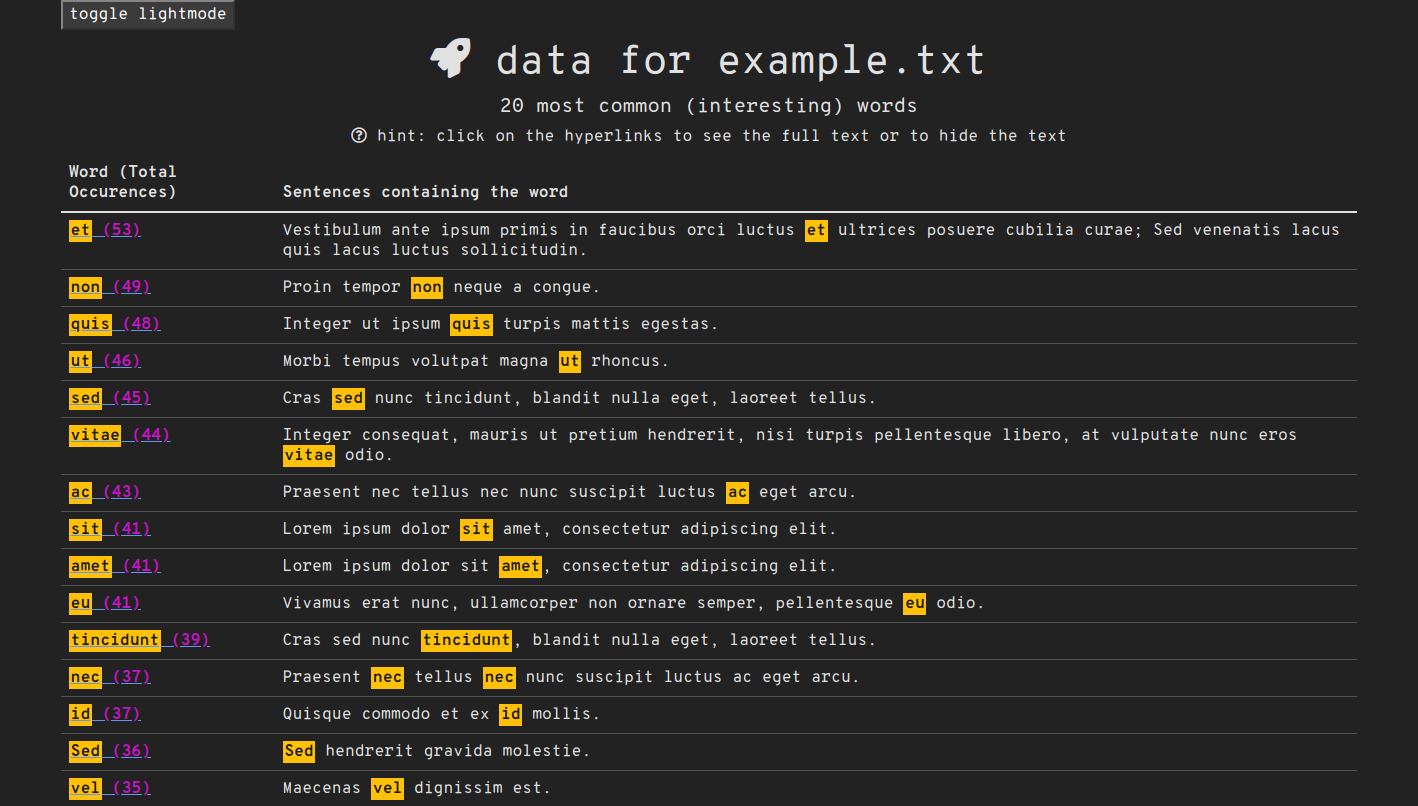
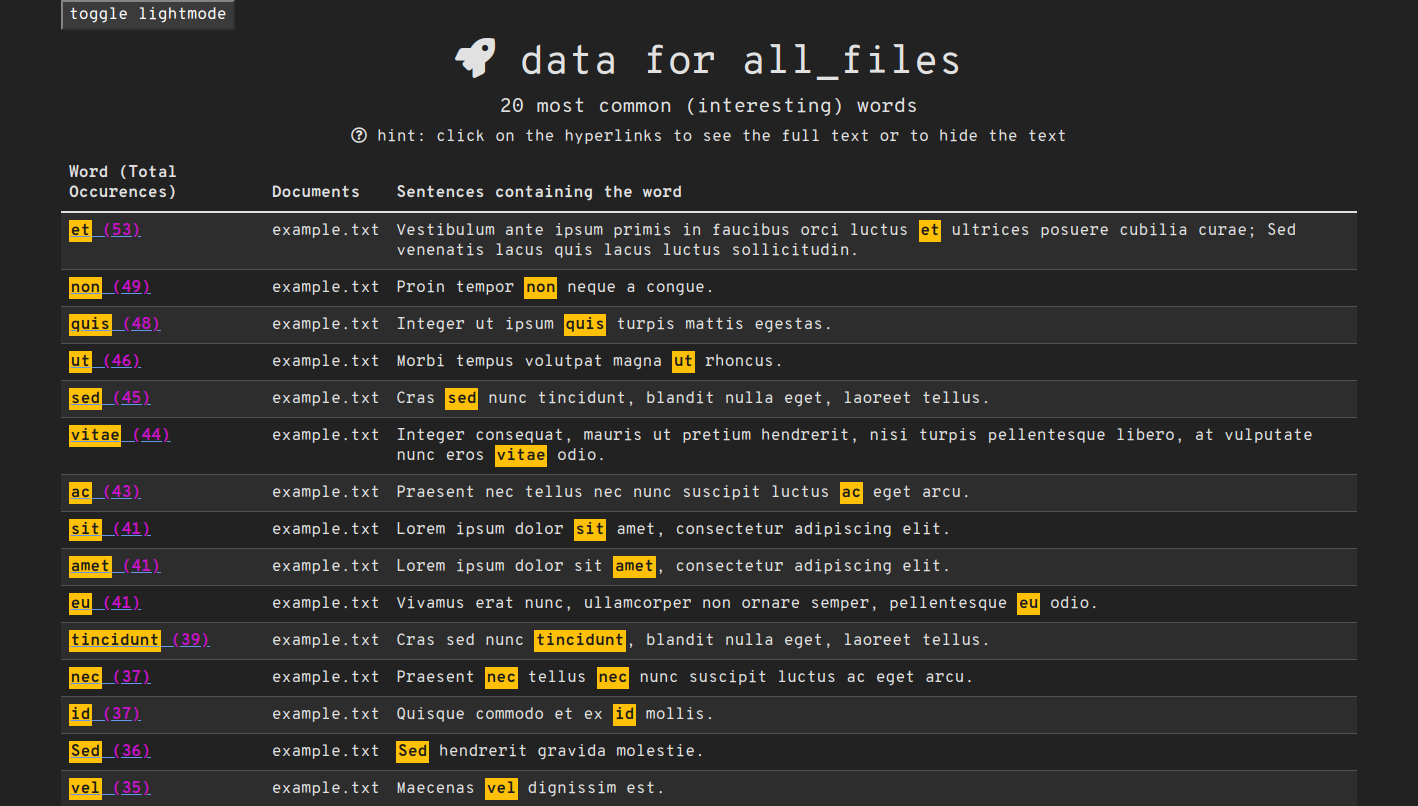
updated examples and README to show documents column

Changed region(s): [[0.1862, 0.2481, 0.9309, 0.9926], [0.2793, 0.031, 0.7137, 0.0931], [0.1862, 0.2171, 0.4965, 0.2481]]

diff --git a/README.MD b/README.MD
@@ -50,7 +50,8 @@ python word-count.py
 
 ...outputs files in the ```out/``` directory in the projects directory with the same name as the input file found in ```src/```.
 
-### note: some words appear to have only one sentence, this is because by default only the first sentence is displayed, click on the word hyperlink (in the word (total occurences) column) to expand/collapse.
+#### note: only the ```out/all_files-out.html``` output shows which documents the sentences came from, the example only has a single file shown as all the data came from the same file.
+#### note: some words appear to have only one sentence, this is because by default only the first sentence is displayed, click on the word hyperlink (in the word (total occurences) column) to expand/collapse.
 
 Light
 ![light](img/example-light.png)
